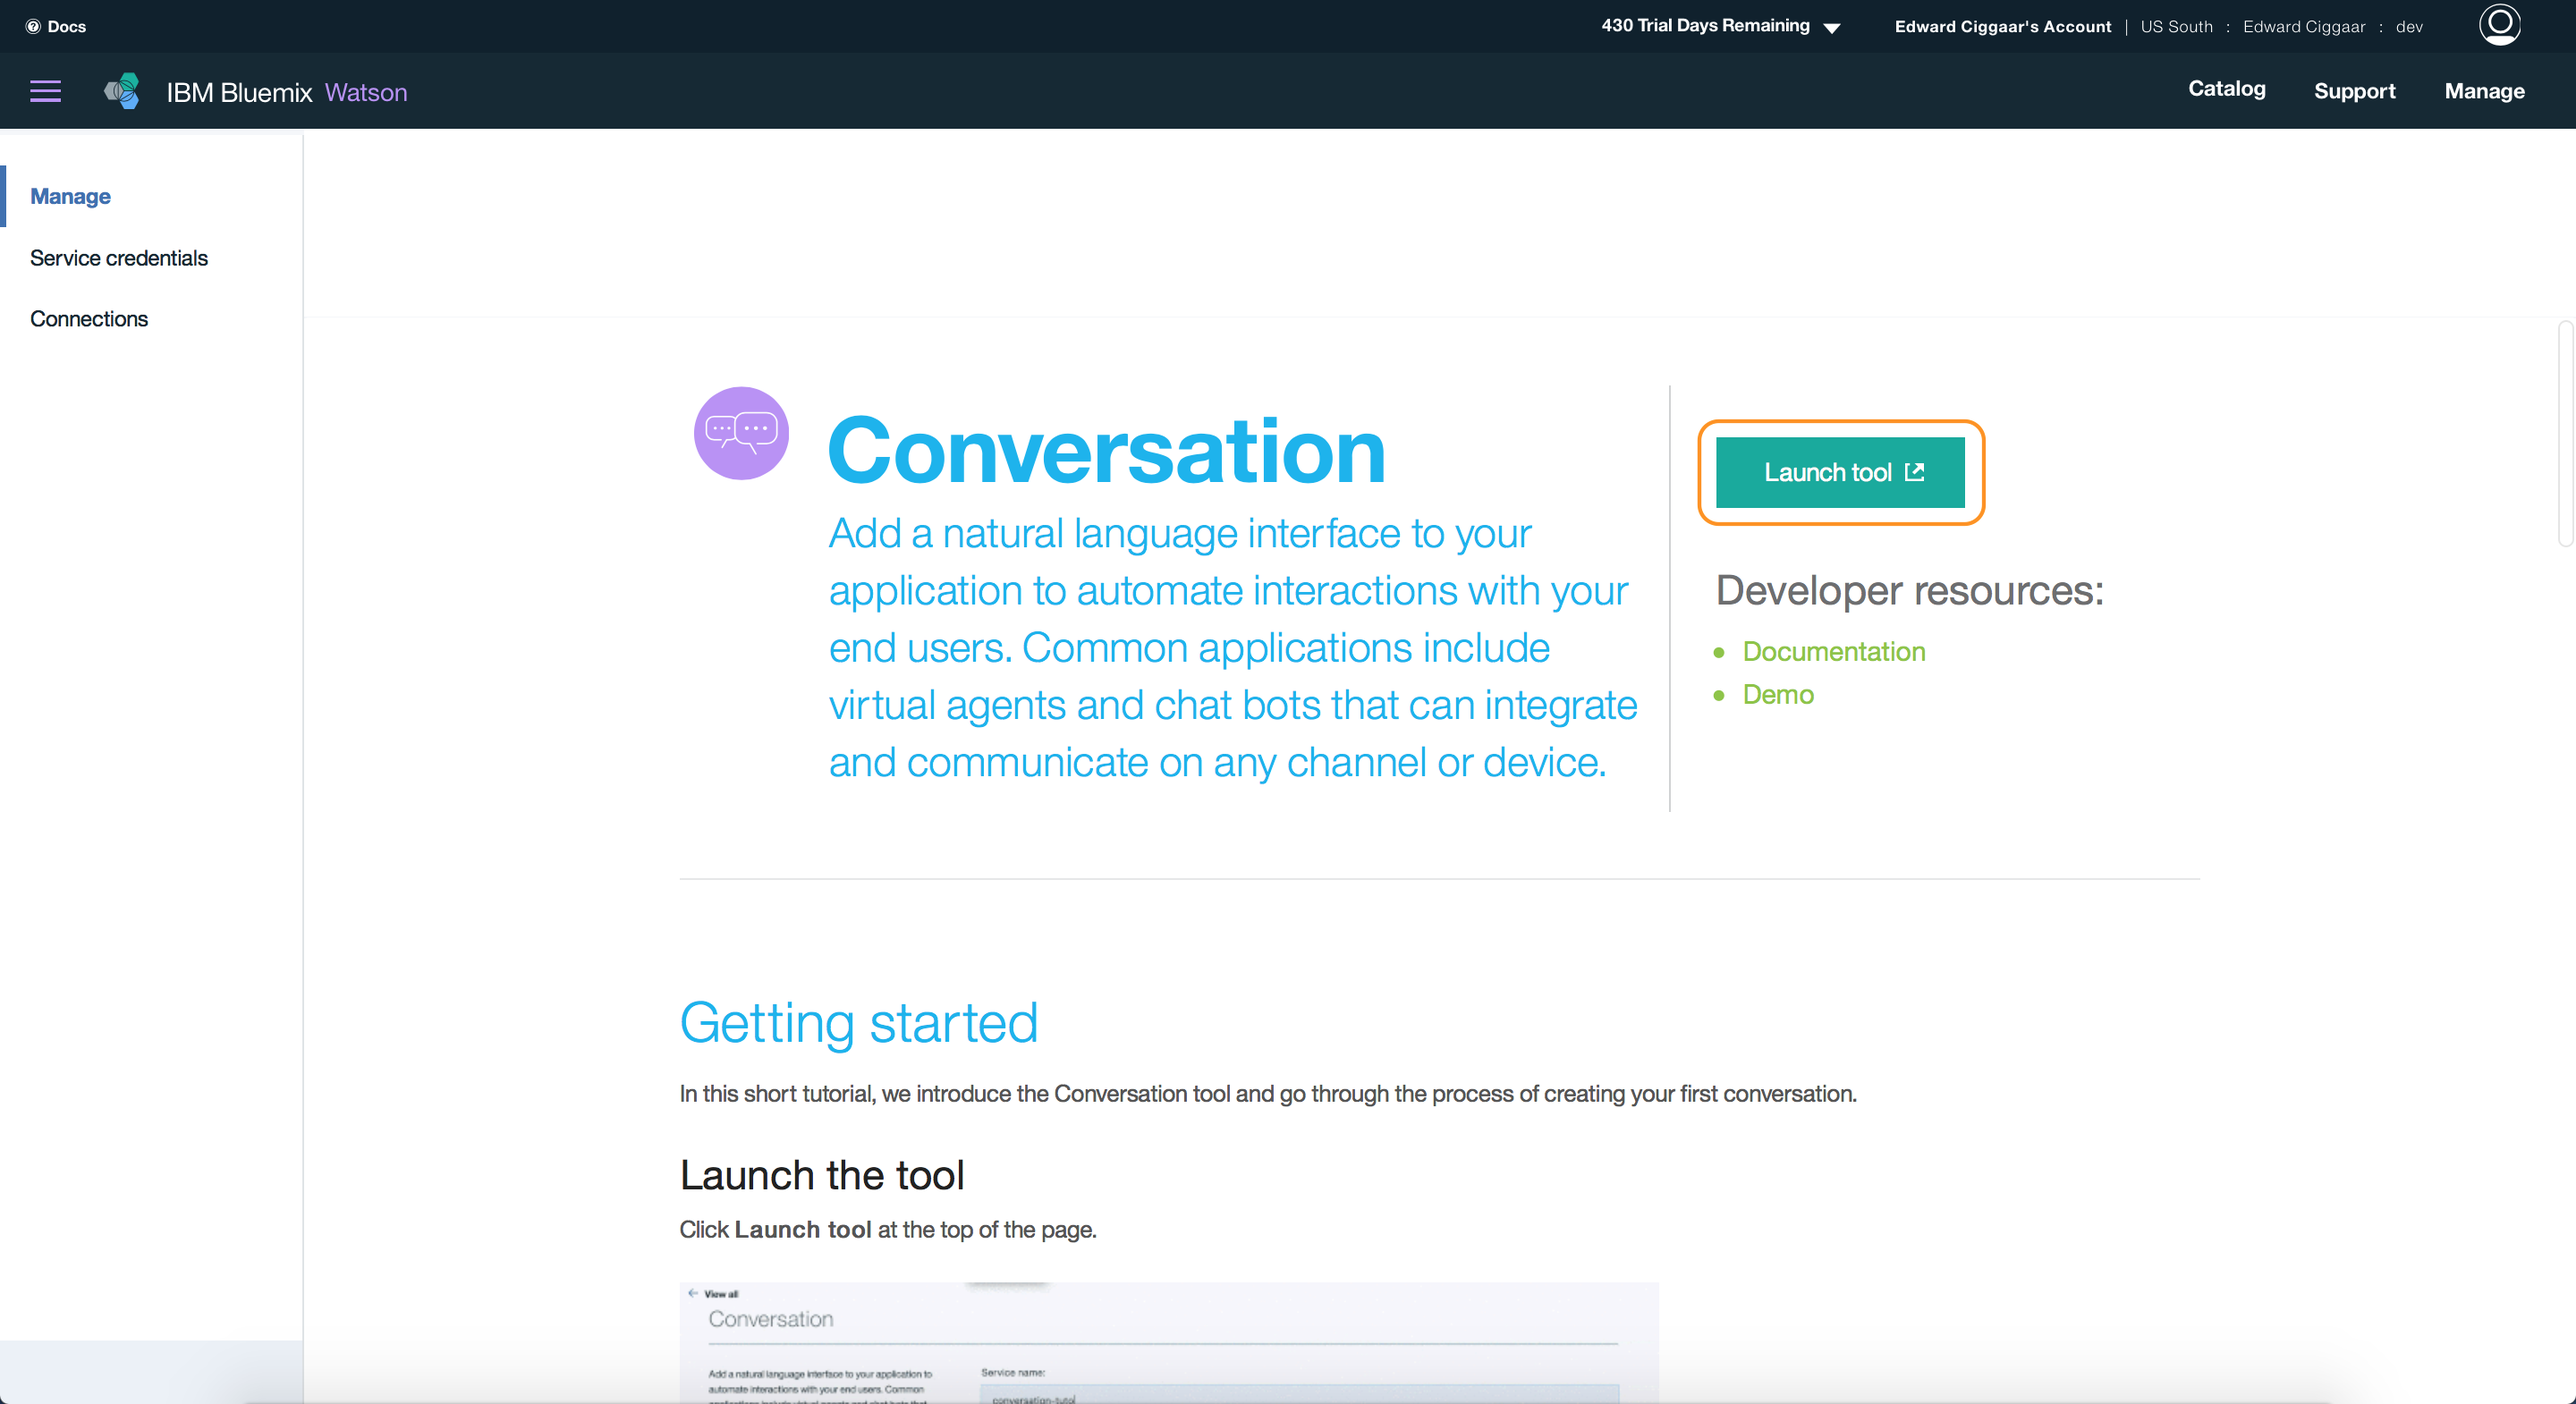
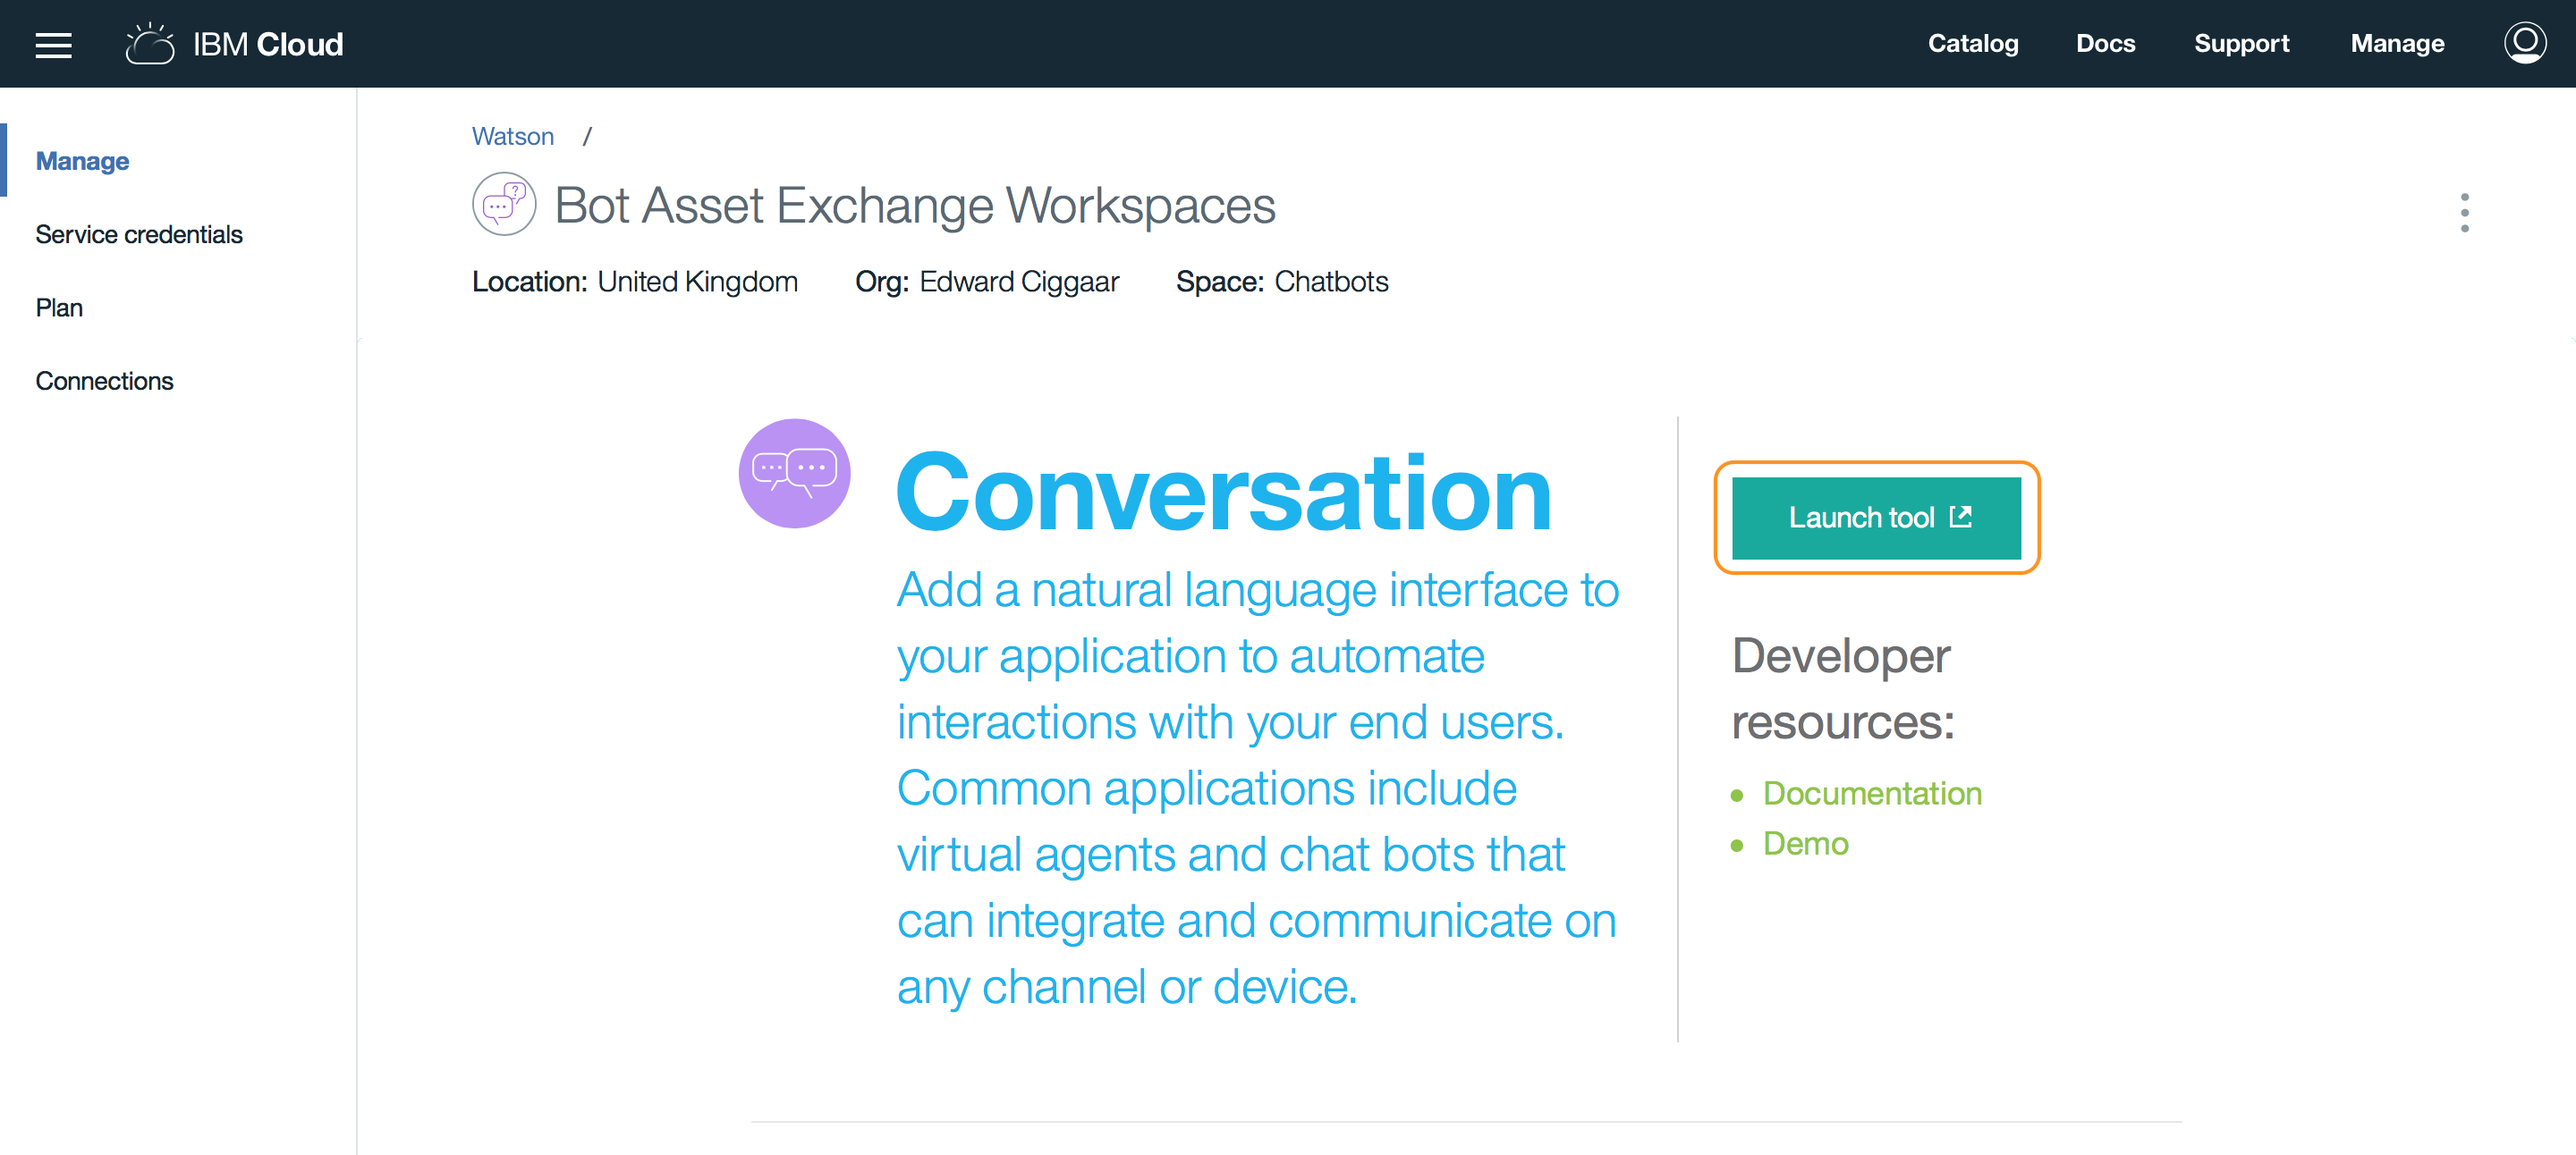
Updated images and README

diff --git a/README.md b/README.md
@@ -10,49 +10,39 @@ Always wanted to know how to build your own banking chatbot? This workshop shows
 At the end of the workshop you have a bot capable of handling greetings, block your card and handle any other topic that you want your bot to be able to deal with.
 
 ## Before you begin
-To be able to use the Watson APIs, you need to have an IBM Cloud account. Your account must have enough resources available to create one service.
+To use the Watson APIs, you need to have an IBM Cloud account. Your account must have enough resources available to create at least two services, one for the chatbot and one that -- under the surface -- automates the deployment of your bot.
 
-## Step 1: Create a Watson Conversation service
+## Step 1: Import the banking demo bot into your own cloud environment
 
-To start with your bot, you need to create a new instance of the Conversation service and launch the tool. For this, make sure that you're logged in to IBM Cloud. Next,
+1. Click the `Get this bot` link below to get the banking demo bot into your own cloud environment.
 
-1. Use Ctrl-click (or the equivalent action for your system) to open the [service creation pane](https://console.eu-gb.bluemix.net/catalog/services/conversation?taxonomyNavigation=apps) in a separate tab.
+  <a href="https://console.bluemix.net/devops/setup/deploy?repository=https%3A//github.com/IBM/chatbot-deployer&chatbotName=Demo%20Banking%20Bot&chatbotWorkspaceURL=https://ibm.box.com/shared/static/rj2r8gf8vjdhc1o5x7rkynnsv1csjgry.json"><img src="https://github.com/eciggaar/banking-chatbot-lab/blob/master/readmeimages/get-this-bot.png?raw=true" width="150"></a>
 
-2. In the **Service name** field, specify `conversation-service`.
+2. When prompted, login to IBM Cloud. Next, click **Create** to actually start the creation.
 
-![Create service][1]
+  ![Create pipeline][1]
 
-3. Click **Create**.
+3. To open the Conversation Tooling environment, click the conversation tile. You should now see your dashboard with a conversation service called `Bot Asset Exchange Workspaces`.
 
-4. Finally, on the **Service Details** page, click **Launch tool** to open the Conversation Tooling.  
+  ![Open Conversation tile][2]
 
-![Launch tool][2]
+4. Click this service and then click **Launch tool**.
 
-## Step 2: Import a workspace
+  ![Launch tool][3]
 
-A _workspace_ is a container for all the artifacts that define the behavior of your bot. To make life a bit easier for you, we've included a sample workspace to give your bot a jump-start. The steps below describe how to import this workspace into your service.
+5. In the available workspaces, select the **Banking Demo Bot** to start working with your bot.
 
-1. Use Ctrl-click (or the equivalent action for your system) to open the <a href="https://ibm.box.com/v/demo-banking-workspace" target=download>sample workspace</a> JSON file in a separate tab. Click **Download** to download this file to your own device.
+  ![Select workspace][4]
 
-  ![Download workspace][3]
+## Step 2: Defining a new intent for the bot
 
-2. If not already done, open the `conversation-service` service that you created in [Step 1](#step-1-create-a-watson-conversation-service) and click on **Launch tool** to open the Watson Conversation Tooling.
-
-3. Click the import button and upload the file `demo_banking_workspace.json` that you downloaded in the first step of this section.
-
-  ![Import JSON][4]
-
-You now successfully imported a sample workspace into your service. Next, the bot's functionality can be extended by defining more intents and entities. These will then be included into the bot's dialog.
-
-## Step 3: Adding a new intent
-
-An intent is a purpose or goal expressed in the user's input, e.g. answering a question, change turning on an appliance in your car. By recognizing the intent expressed in the user's input, the Watson Conversation service can choose the correct dialog branch for responding to it.
+An intent is a purpose or goal expressed in the user's input, e.g. the user wants to report a lost card and take action.
 
 1. After the successful import in the previous section, you should see the following screen in front of you.
 
 ![Imported workspace][12]
 
-2. On the Intents tab, select **Create new** and add the following intent name: `kaart_kwijt`. This intent indicates that the user lost their card and wants the bank to take action and block it.
+2. On the Intents tab, select **Add intent** and add the following intent name: `kaart_kwijt`. This intent indicates that the user lost their card and wants the bank to block it.
 
 ![Workspace intents][5]
 
@@ -61,7 +51,7 @@ An intent is a purpose or goal expressed in the user's input, e.g. answering a q
 4. Add these 4 more examples to help Watson recognize the `#kaart_kwijt` intent and hit Enter:
 ```
   Ik heb geen idee waar mijn bankpas is
-  Ik ben mijn credit card verloren
+  Ik ben mijn creditcard verloren
   Mijn pinpas is weg.
   Ik ben bang dat ik mijn credit card verloren ben.
 ```
@@ -89,8 +79,6 @@ The `@card` entity represents the different card types that the bot can handle.
     * Synonym: `maestro`.
 
     * Synonym: `pinpas`.
-
-    * Synonym: `betaalpas`.
 
 You defined one entity `@card` with two values -- representing the supported card types. The next section will explain how you can extend the existing dialog to use these intents and entities and to define the correct response.
 
@@ -218,6 +206,8 @@ If the bot fails to recognize the correct intent, you can retrain it directly fr
 
 **Tip**: Don't include the `#` character when you type the intent name.
 
+**Congratulations!!** You've built your own bot in a snap!! :smiley: :smiley:
+
 ### What to do next
 
 Now that your bot is complete, you can experiment by enhancing it with new functions. For example:
@@ -227,61 +217,18 @@ Now that your bot is complete, you can experiment by enhancing it with new funct
 * Add a new intent to turn off appliances
 * Add capability for turning on music and specifying a musical genre with a single command
 
-## Step 6: _(Optional)_ - deploy a sample application to host your bot
-
-To see your bot live in action, using a sample NodeJS application, press Ctrl-click (or the equivalent for your system) to open the button below in a separate tab. This deployment sets up a delivery pipeline for which the Continues Delivery service is created. Until now, this service is only available in the US region of Bluemix.
-
-To make sure you have a space in this region as well, use Ctrl-click to open the [dashboard](https://console.ng.bluemix.net/login) of this region. If you are all OK, you get the dashboard. Otherwise, you will be asked to create your first space in this region -- as depicted in the screenshot below.
-
-![Create space in US][16]
-
-Use Ctrl-click (or the equivalent for your system) to open the deploy-to button below in a separate tab.
-
-[![Deploy to Bluemix](https://deployment-tracker.mybluemix.net/stats/a3a41102a5d277cce1b65b7b1dc018e8/button.svg)](https://bluemix.net/deploy?repository=https://github.com/eciggaar/botmaster-watsonconversation-socketio.git)
-
-In the **Delivery Pipline** section, choose the `United Kingdom (Production)` as region and select the space where you deployed your Watson Conversation service to (most likely `dev`).
-
-![Select region][17]
-
-Click **Deploy** to start the deployment. You can check the deployment by clicking the Delivery Pipeline tile in the toolchain.
-
-![Select delivery pipeline][18]
-
-Once the **Deploy Stage** is also successfully completed, select the URL to view your app.
-
-![View app][19]
-
-**Congratulations!!** You've built your own bot in a snap!! :smiley: :smiley:
-
-## License
-
-  The sample code which is deployed via the **Deploy to Bluemix** button is licensed under Apache 2.0. Full license text is available in [LICENSE](LICENSE).
-
-## Privacy Notice
-
-The node sample web application, that is deployed for you when clicking the **Deploy to Bluemix** button, includes code to track deployments to Bluemix and other Cloud Foundry platforms. The following information is sent to a Deployment Tracker service on each deployment:
-
-* Application Name (`application_name`)
-* Space ID (`space_id`)
-* Application Version (`application_version`)
-* Application URIs (`application_uris`)
-
-This data is collected from the `VCAP_APPLICATION` environment variable in IBM Bluemix and other Cloud Foundry platforms. This data is used by IBM to track metrics around deployments of sample applications to IBM Bluemix. Only deployments of sample applications that include code to ping the Deployment Tracker service will be tracked.
-
-### Disabling Deployment Tracking
-
-Deployment tracking can be disabled by removing `require('cf-deployment-tracker-client').track();` from the beginning of the `app.js` file at the root of its repo.
-
 ## Additional Links
 
 * Botmaster Documentation : [Botmaster Documentation](http://botmasterai.com/)
 * Watson Conversation Documentation : [Watson Conversation](http://www.ibm.com/watson/developercloud/doc/conversation/index.html)
 * Watson Conversation Tutorial: [Watson Tutorial](https://www.ibm.com/watson/developercloud/doc/conversation/tutorial.html)
 
-[1]: https://github.com/eciggaar/chatbot-lab/blob/master/readmeimages/create-service.png?raw=true
-[2]: https://github.com/eciggaar/chatbot-lab/blob/master/readmeimages/launch-tool.png?raw=true
-[3]: https://github.com/eciggaar/chatbot-lab/blob/master/readmeimages/download.png?raw=true
-[4]: https://github.com/eciggaar/chatbot-lab/blob/master/readmeimages/import-json.png?raw=true
+[1]: https://github.com/eciggaar/banking-chatbot-lab/blob/master/readmeimages/create-pipeline.png?raw=true
+[2]: https://github.com/eciggaar/banking-chatbot-lab/blob/master/readmeimages/open-conversation.png?raw=true
+[3]: https://github.com/eciggaar/banking-chatbot-lab/blob/master/readmeimages/launch-tool.png?raw=true
+[4]: https://github.com/eciggaar/banking-chatbot-lab/blob/master/readmeimages/select-workspace.png?raw=true
+
+
 [5]: https://github.com/eciggaar/chatbot-lab/blob/master/readmeimages/intents.png?raw=true
 [6]: https://github.com/eciggaar/chatbot-lab/blob/master/readmeimages/close.png?raw=true
 [7]: https://github.com/eciggaar/chatbot-lab/blob/master/readmeimages/options.png?raw=true
